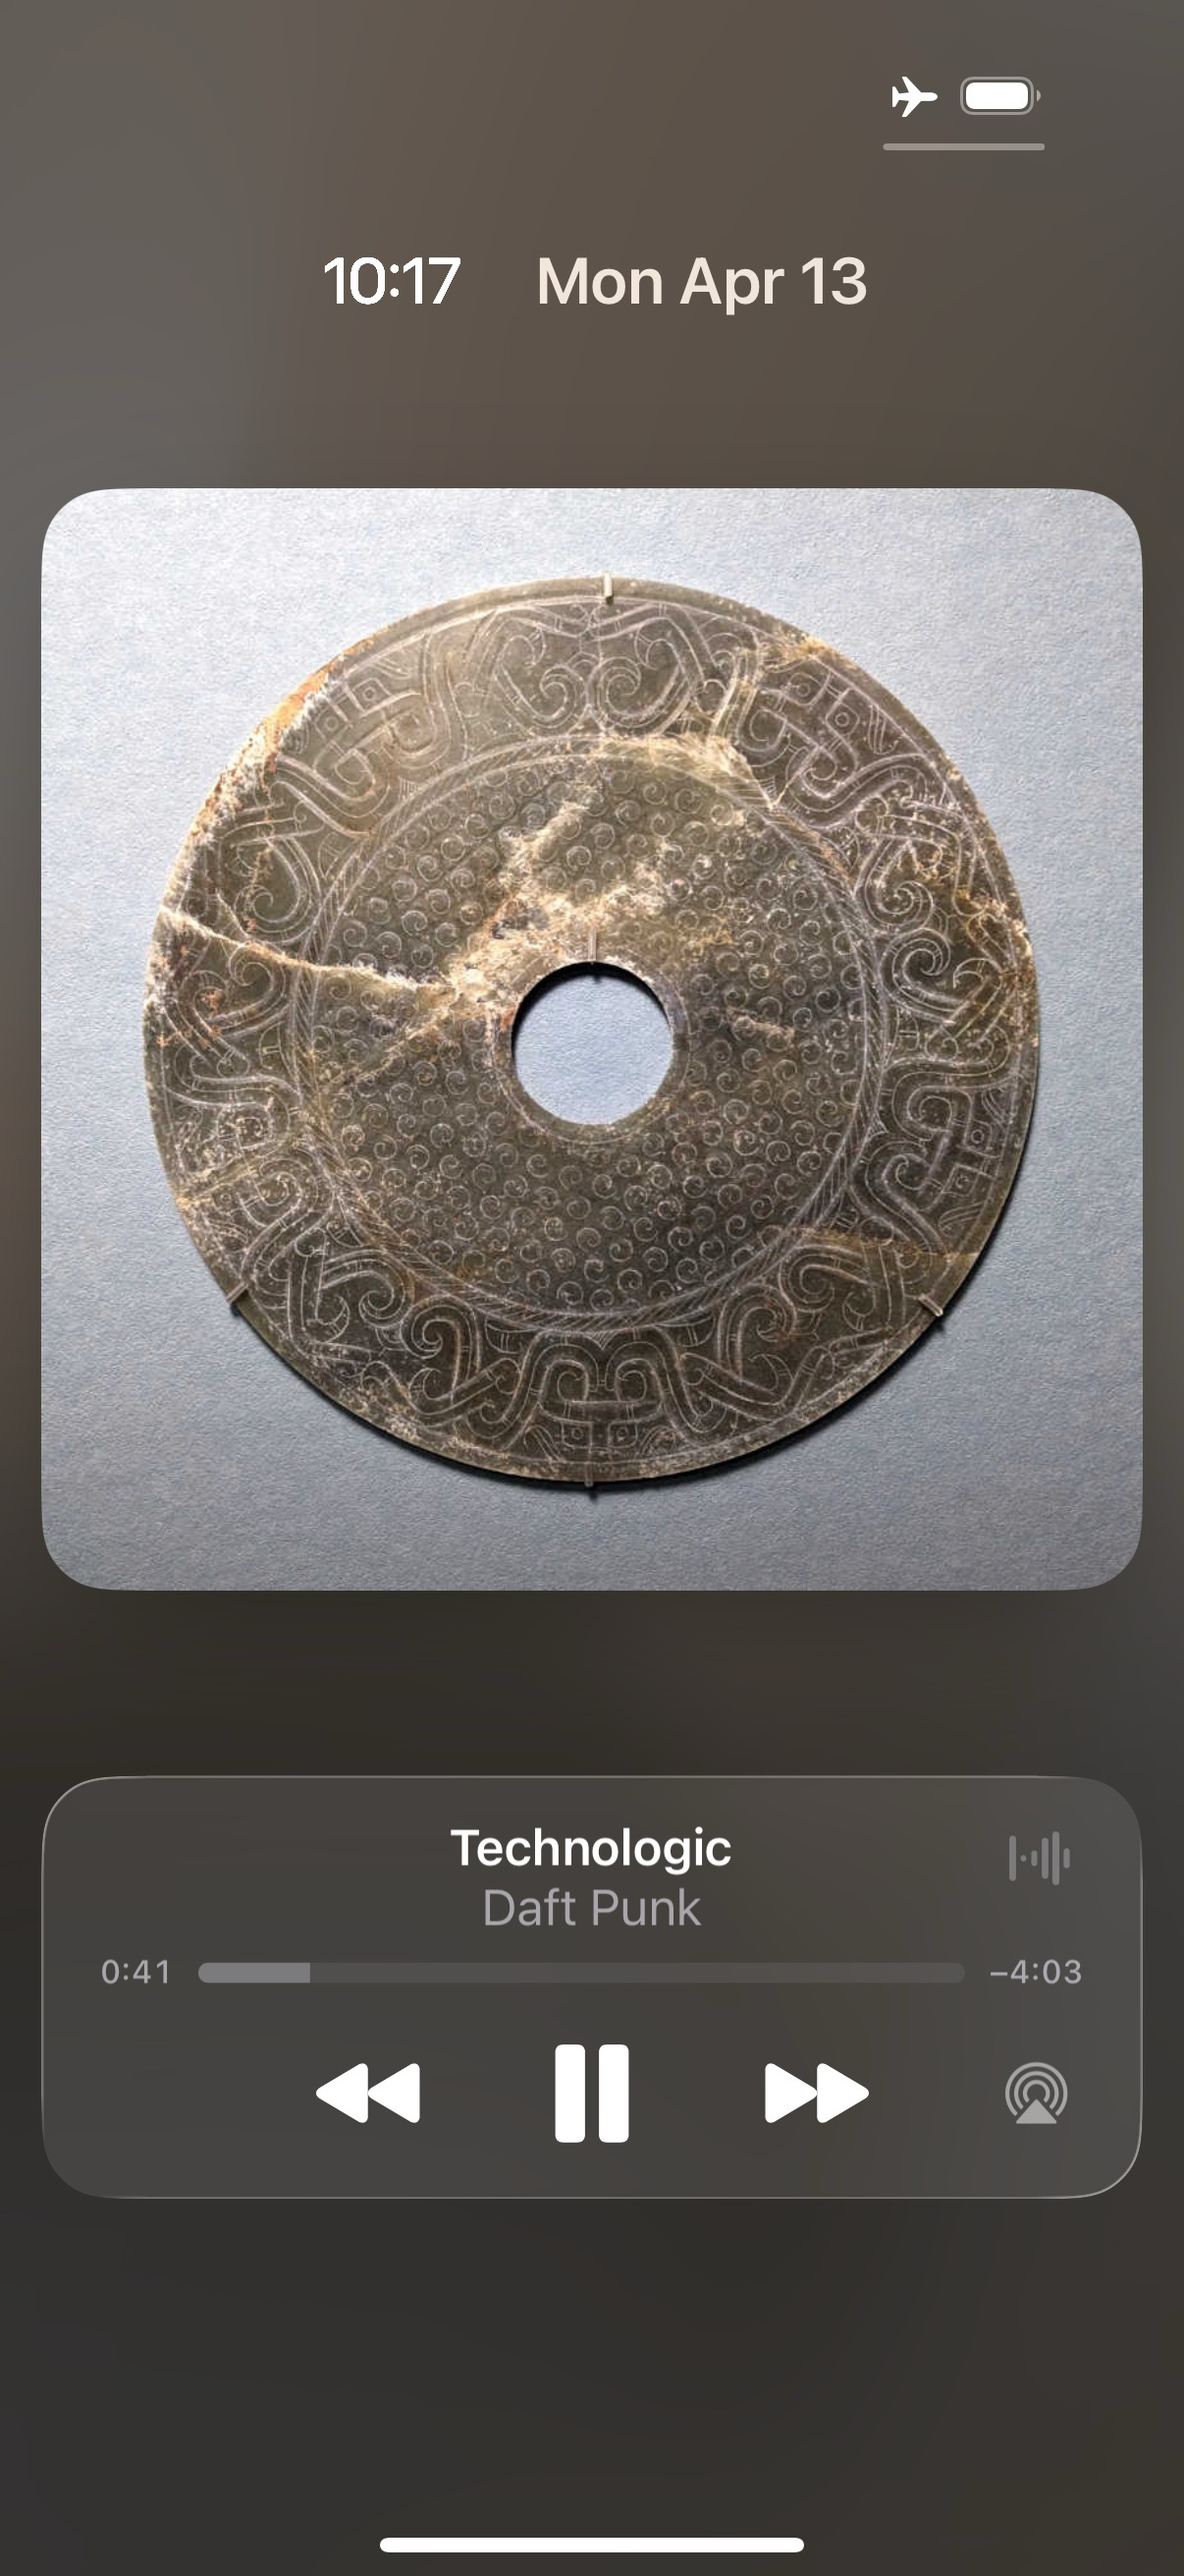
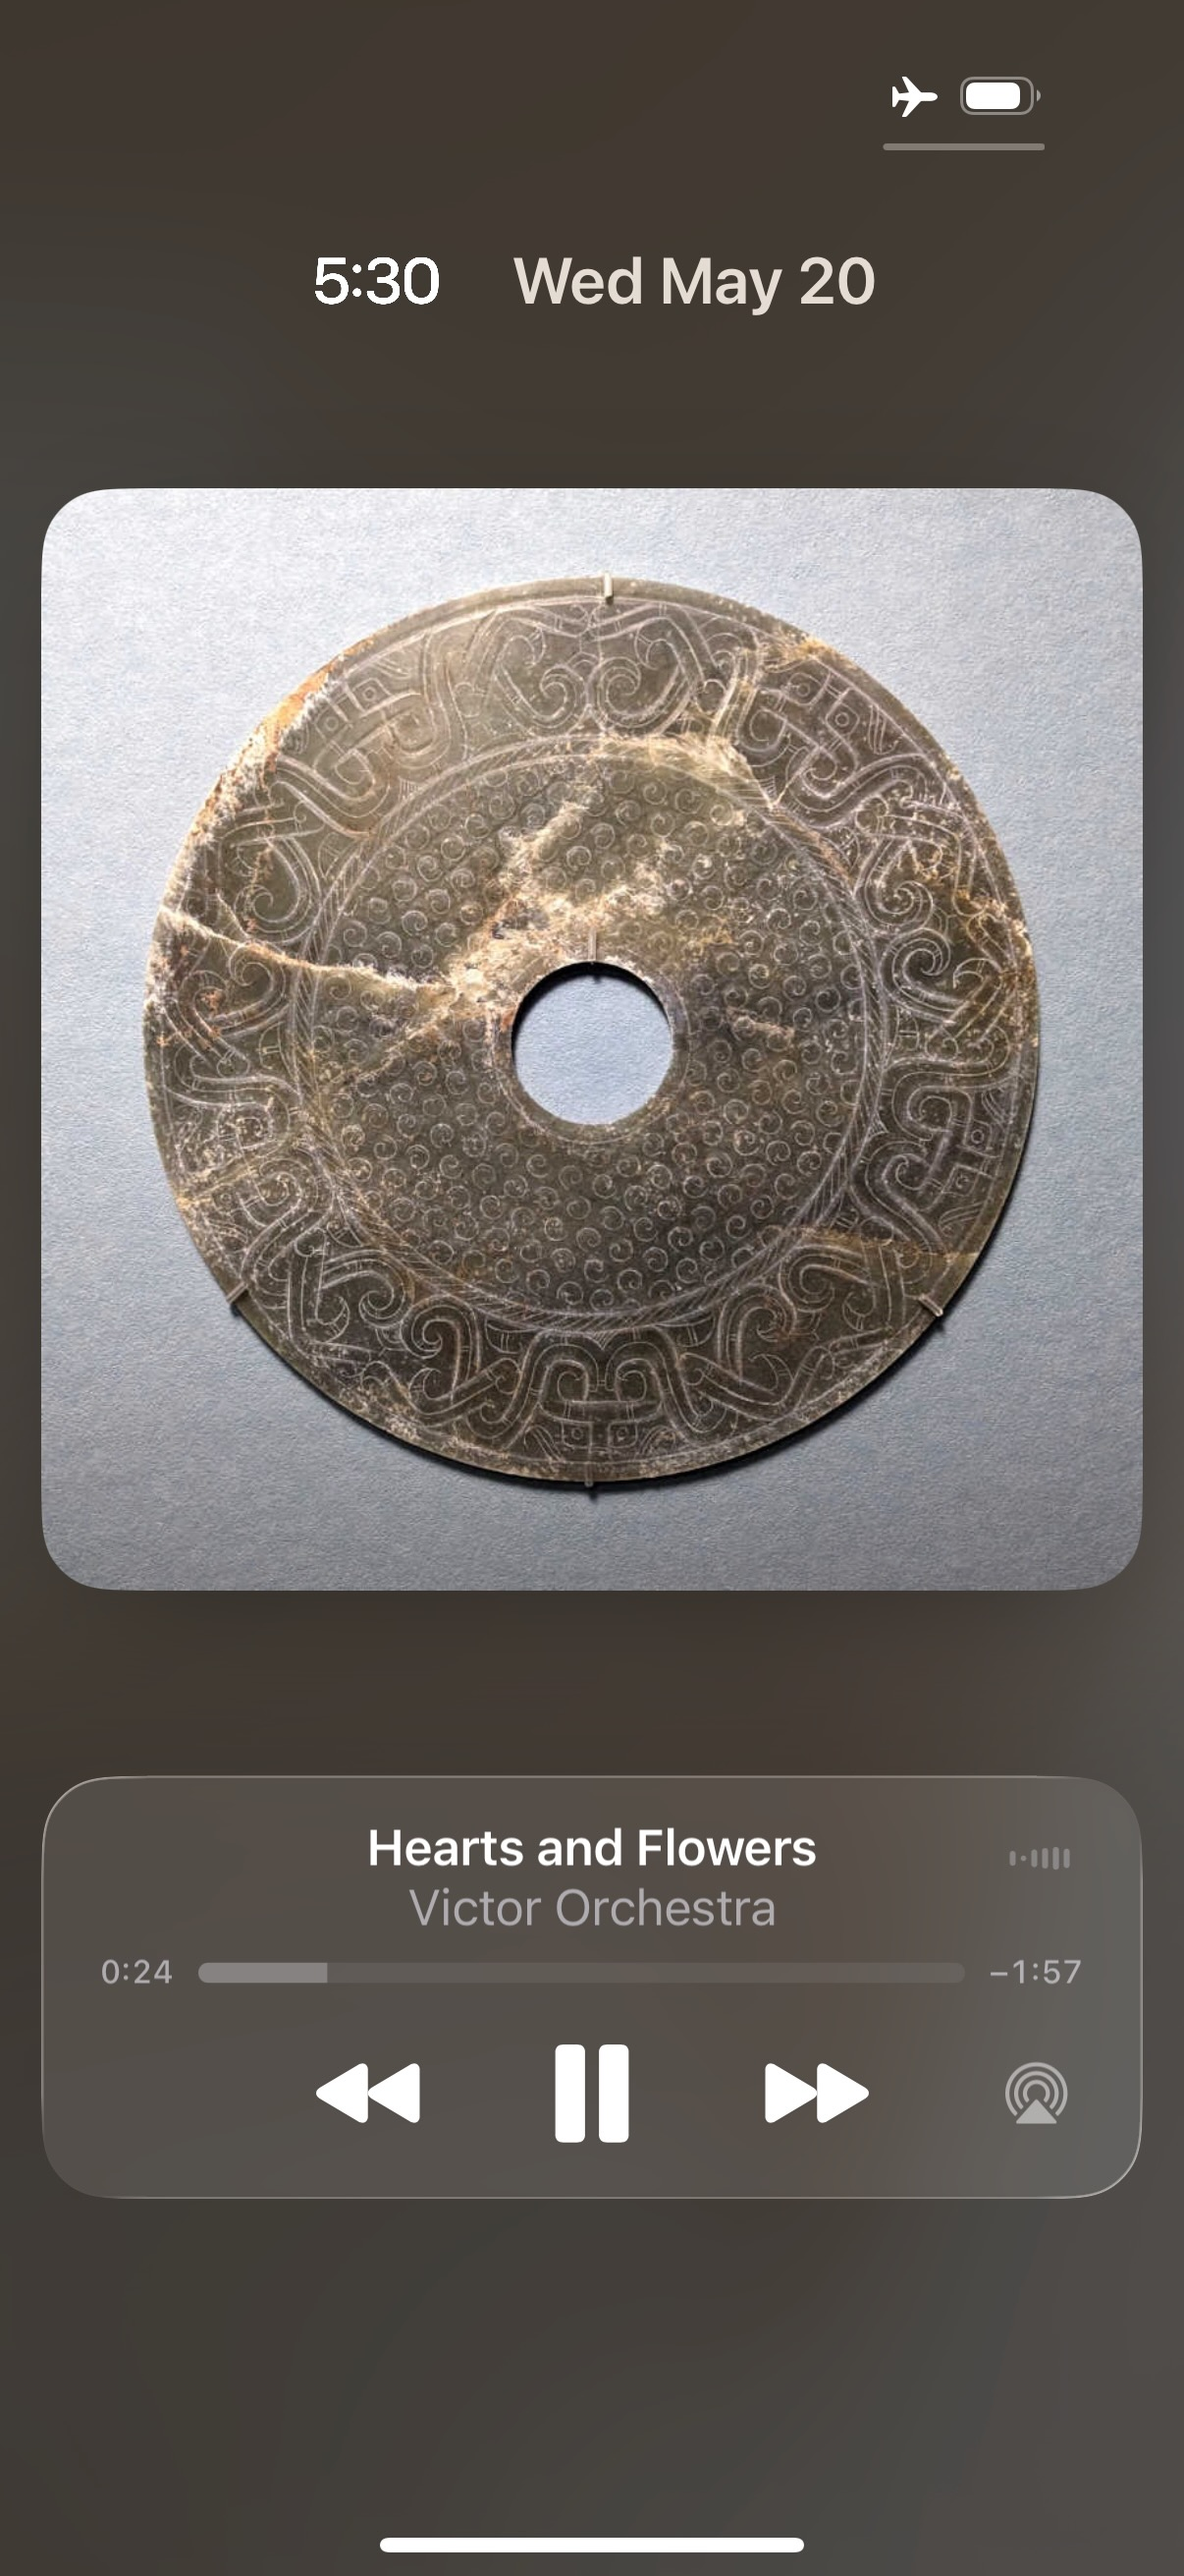
update readme, reamde_images

diff --git a/readme.md b/readme.md
@@ -1,16 +1,19 @@
 # 💿 mixapps
 
-mixapps are like mixtapes or mix CDs, but packaged as <a href="https://hunterirving.github.io/web_workshop/pages/pwa">Progressive Web Apps</a> that you can share with friends and install for offline use.
+mixapps are like mixtapes or mix CDs, but packaged as <a href="https://hunterirving.github.io/web_workshop/pages/pwa">Progressive Web Apps</a> that you can install for offline use.
 
 <p align="center">
 	<img src="readme_images/collection.jpeg" width="550">
 </p>
 
 ## demo
+<p align="center">
 <a href="https://hunterirving.com/worn_grooves/">worn grooves ↗</a>
+<br>(public domain recordings)
+</p>
 
 ## key features
-- shareable mixes that work offline on iOS, Android, Windows, MacOS, and Linux
+- installable mixes that work offline on iOS, Android, Windows, MacOS, and Linux
 - support for `mp3`, `m4a`, `ogg`, `flac`, and `wav` audio formats
 - highly customizable interface (just add CSS!)
 
@@ -19,28 +22,30 @@ mixapps are like mixtapes or mix CDs, but packaged as <a href="https://hunterirv
 </p>
 
 ## own something and be happy
-in the transition from physical mixtapes to cloud-hosted playlists, we stopped giving each other digital things.
-
-these days, we mostly point to things that we don't control.
 
 modern playlists are platform-locked, often require a paid subscription, and decay as licenses expire.
 
+these days, we mostly point to things that we don't control.
 
 <p align="center">
 	<br><img src="readme_images/sorry.gif" width="600"><br><br>
 </p>
 
-
-but our custom of gift-giving can be restored, if we restore the structures that enabled it.
+<hr><br>
 
 mixapps are digital artifacts. immutable objects that can persist on-device, independent of platforms, contracts, and corporate whim.<br><br>
 
-once you share one with a friend, it's theirs.<br><br>
+once you install one, it's yours.<br><br>
+
+> [!IMPORTANT]
+> mixapps make it easy to host audio on the public internet. hosting content you don't have the right to distribute is copyright infringement, even when shared privately with a friend or framed as a gift. fair use and backup exceptions cover personal copies, not public hosting.
+>
+> before uploading, ensure you have the right to distribute the files you include in `/mix`. this can include your own recordings, public-domain works, creative commons releases, or material you've licensed from the rights holder.
 
 ## quickstart
 1. **serve it**
 	- run `./serve.py` to start a development server. while the server is running, you can:
-		- **add new tracks** by moving audio files into the `/mix` directory, dragging them into the browser window, running `./rip.py` to rip tracks from a physical CD, or running `./buy.py` to buy tracks on iTunes
+		- **add new tracks** by moving audio files into the `/mix` directory, dragging them into the browser window, running `./rip.py` to rip tracks from a physical CD, or running `./buy.py` to buy tracks on iTunes (both are fine to use locally; check distribution rights before hosting publicly)
 		- **reorder tracks** by dragging them up or down in the list
 		- **delete tracks** with `shift + click`
 
@@ -51,7 +56,7 @@ once you share one with a friend, it's theirs.<br><br>
 	- upload the entire project directory to any static web host with HTTPS support (GitHub Pages, Neocities, AWS S3, etc.)
 
 4. **share it**
-	- send the hosted URL to your recipient and walk them through the installation process:
+	- once it's hosted, anyone can install your mixapp by opening the URL and following their browser's PWA installation steps:
 		- **iOS (Safari)**: tap `···` → `Share` → `View More` → scroll down to reveal and tap `Add to Home Screen` → `Add`
 		- **Android**:
 			- **Firefox**: tap `⋮` → `··· More` → Add to Home screen → Add to home screen
@@ -63,9 +68,6 @@ once you share one with a friend, it's theirs.<br><br>
 
 ## customization
 add your own `custom.css`, `custom.js`, and/or `album_art.jpg` to `/mix` to customize your mixapp's appearance and behavior.
-
-## intellectual property notice
-ensure you have the right to distribute any media files you include in public mixapps. personal archival backups are for your own use. sharing them with others, even as a gift, is not covered by fair use or backup exceptions.
 
 ## licenses
 this project is licensed under the <a href="LICENSE">GNU General Public License v3.0</a>.
